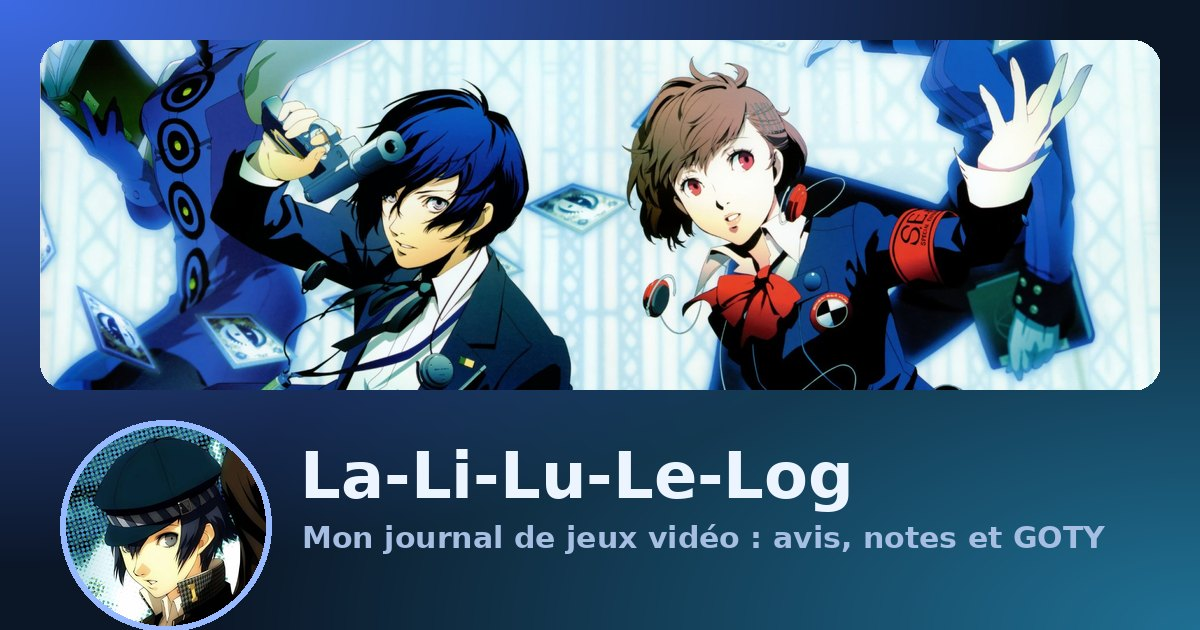
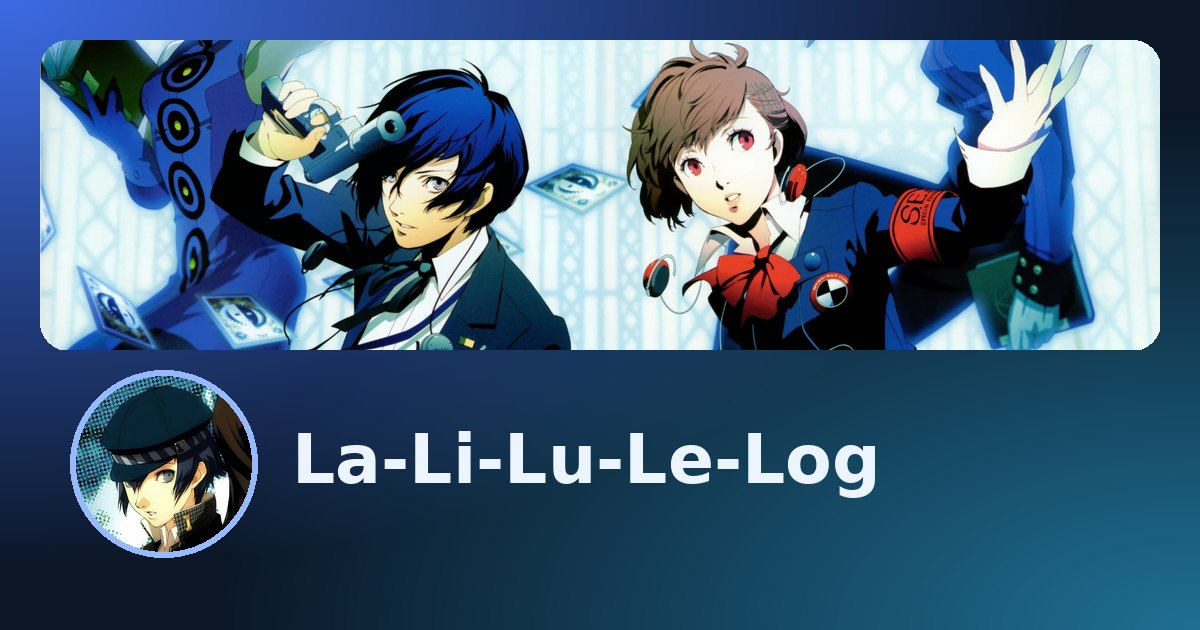
v281 : image d'apercu - photo remontee, sans sous-titre
Claude-Session: https://claude.ai/code/session_01Pdku65AoHRArJ7ArXDH5f8

diff --git a/index.html b/index.html
@@ -23,7 +23,7 @@
 <link rel="preconnect" href="https://fonts.googleapis.com">
 <link rel="preconnect" href="https://fonts.gstatic.com" crossorigin>
 <link href="https://fonts.googleapis.com/css2?family=Inter:wght@400;500;600;700&display=swap" rel="stylesheet">
-<link rel="stylesheet" href="assets/style.css?v=280">
+<link rel="stylesheet" href="assets/style.css?v=281">
 </head>
 <body>
 <div id="boot" aria-label="Chargement"><img class="bg" src="assets/loading.gif" alt=""></div>
@@ -70,6 +70,6 @@
   <div class="lb-count"></div>
 </div>
 <script src="https://cdnjs.cloudflare.com/ajax/libs/marked/12.0.2/marked.min.js"></script>
-<script src="assets/app.js?v=280"></script>
+<script src="assets/app.js?v=281"></script>
 </body>
 </html>
